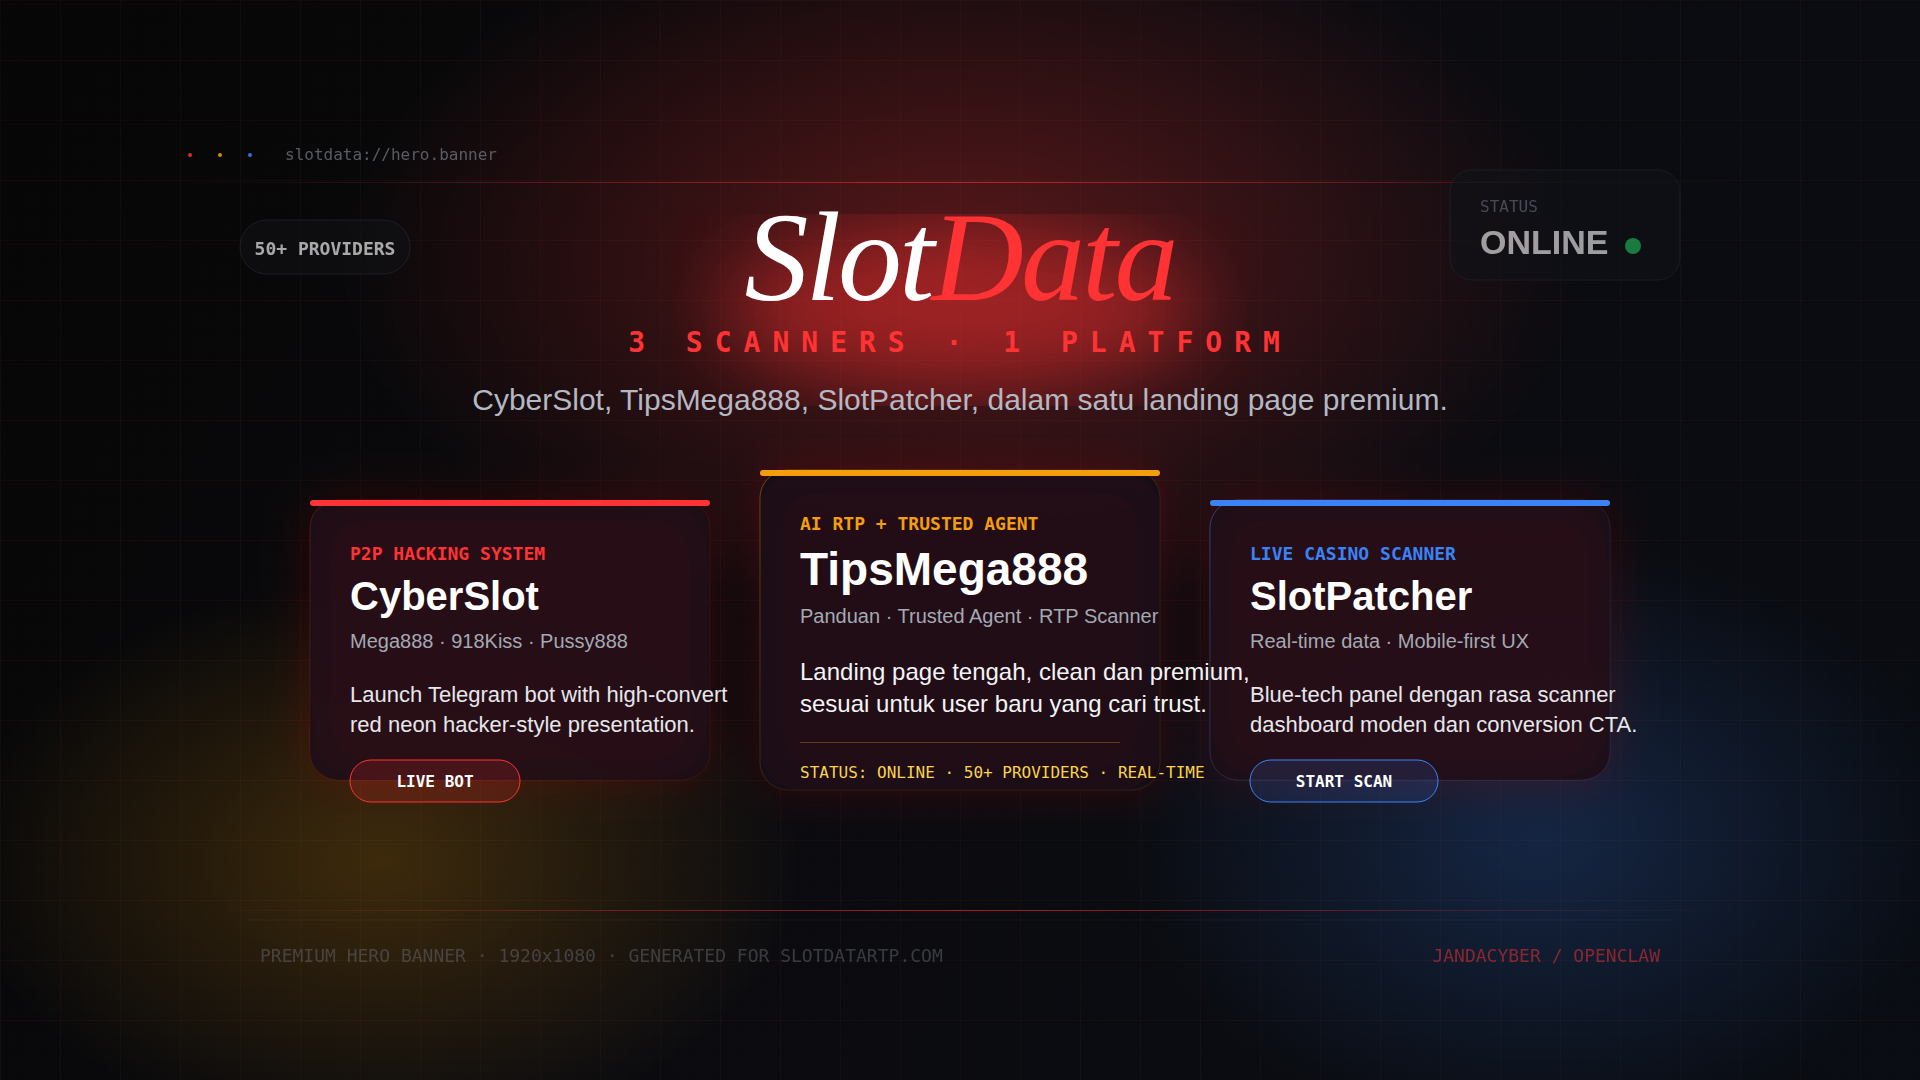
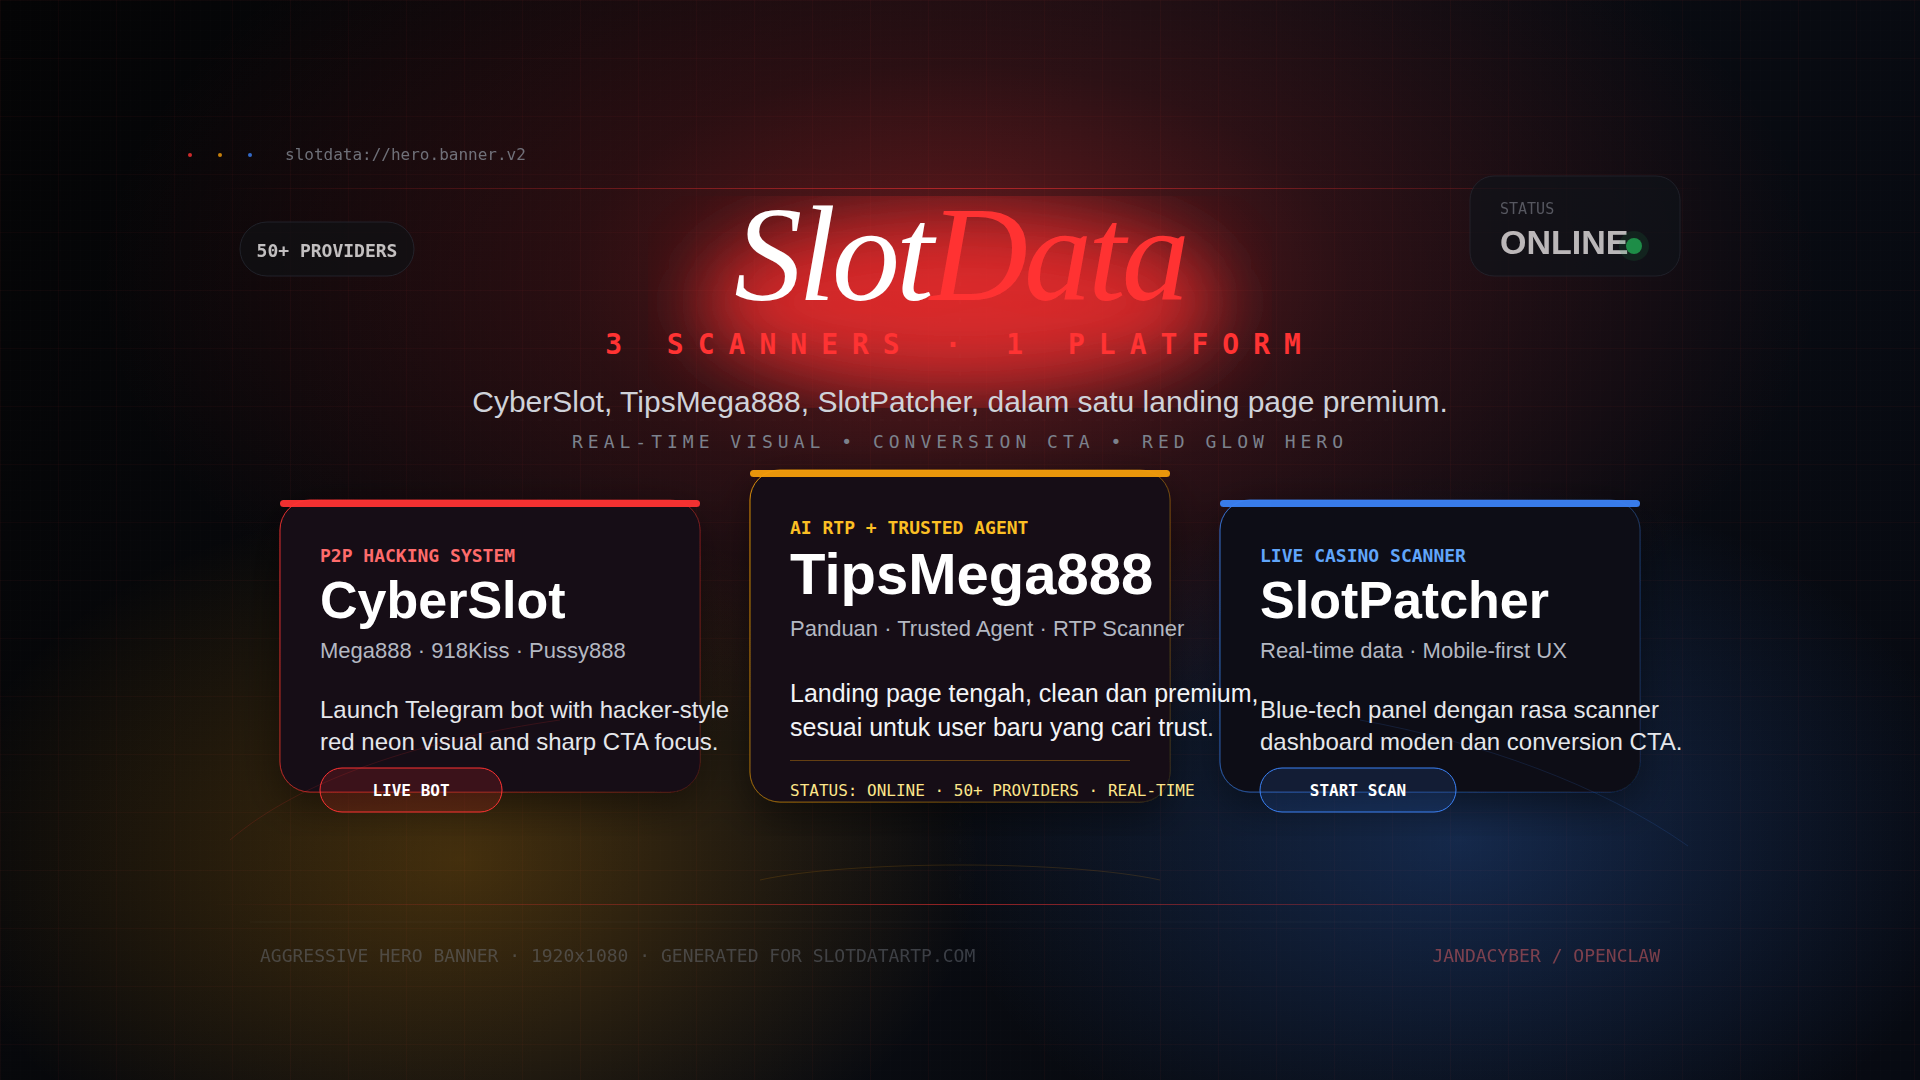
feat: upgrade hero artwork and embed it into landing page

diff --git a/App.tsx b/App.tsx
@@ -418,6 +418,35 @@ const StatCard: React.FC<{ label: string; target: number; suffix: string }> = ({
   );
 };
 
+const HeroArtwork: React.FC = () => {
+  const tiltRef = useTilt<HTMLDivElement>(8);
+  const reveal = useScrollReveal<HTMLDivElement>();
+
+  return (
+    <div
+      ref={(el) => { (tiltRef as React.MutableRefObject<HTMLDivElement | null>).current = el; (reveal.ref as React.MutableRefObject<HTMLDivElement | null>).current = el; }}
+      className={`relative mt-10 mb-10 transition-all duration-700 ${reveal.visible ? 'opacity-100 translate-y-0' : 'opacity-0 translate-y-10'}`}
+    >
+      <div className="absolute -inset-6 bg-gradient-to-r from-[#FF3333]/12 via-[#F59E0B]/10 to-[#3B82F6]/12 blur-3xl rounded-[40px] pointer-events-none"></div>
+      <div className="absolute inset-0 rounded-[34px] border border-white/5 pointer-events-none"></div>
+      <div className="absolute top-6 left-6 z-10 px-3 py-1 rounded-full bg-black/40 backdrop-blur-md border border-[#FF3333]/20 text-[#FF3333] text-[10px] font-bold uppercase tracking-[0.25em] font-mono">
+        PREMIUM HERO VISUAL
+      </div>
+      <div className="absolute bottom-6 right-6 z-10 px-3 py-1 rounded-full bg-black/40 backdrop-blur-md border border-[#3B82F6]/20 text-[#E5E7EB] text-[10px] font-bold uppercase tracking-[0.2em] font-mono">
+        SLOTDATARTP.COM
+      </div>
+      <div className="relative overflow-hidden rounded-[34px] border border-neutral-800/80 bg-[#090909] shadow-[0_0_80px_rgba(255,51,51,0.12)]">
+        <div className="absolute inset-0 bg-[radial-gradient(circle_at_top,rgba(255,51,51,0.10),transparent_35%),radial-gradient(circle_at_bottom_left,rgba(245,158,11,0.10),transparent_25%),radial-gradient(circle_at_bottom_right,rgba(59,130,246,0.10),transparent_25%)] pointer-events-none"></div>
+        <img
+          src="/hero-slotdatartp.svg"
+          alt="SlotData premium hero artwork"
+          className="relative z-[1] w-full h-auto block"
+        />
+      </div>
+    </div>
+  );
+};
+
 
 // ─── MAIN APP ──────────────────────────────────────
 function App() {
@@ -503,17 +532,26 @@ function App() {
             {heroSubtitle}<span className={`inline-block w-1.5 h-3 bg-[#FF3333] ml-0.5 ${subtitleDone ? 'animate-pulse' : ''}`}></span>
           </p>
 
-          <p className="text-neutral-400 text-base md:text-lg max-w-xl mx-auto mb-10 leading-relaxed">
+          <p className="text-neutral-400 text-base md:text-lg max-w-xl mx-auto mb-6 leading-relaxed">
             Pilih scanner yang betul untuk anda. Real-time RTP data dari 50+ provider. Scan, track, dan buat keputusan yang tepat.
           </p>
 
-          <a href="#scanners" className="inline-flex items-center gap-3 px-6 py-3 rounded-full bg-neutral-900 border border-neutral-800 hover:border-[#FF3333]/30 transition-all group pill-glow magnetic-btn">
-            <span className="px-2 py-0.5 rounded bg-[#FF3333] text-white text-[10px] font-bold uppercase">3 Live</span>
-            <span className="text-sm text-neutral-300">Pilih Scanner Anda</span>
-            <svg width="14" height="14" viewBox="0 0 24 24" fill="none" stroke="#FF3333" strokeWidth="2" strokeLinecap="round" strokeLinejoin="round" className="group-hover:translate-x-1 transition-transform">
-              <path d="M5 12h14M12 5l7 7-7 7"/>
-            </svg>
-          </a>
+          <div className="max-w-5xl mx-auto">
+            <HeroArtwork />
+          </div>
+
+          <div className="flex items-center justify-center gap-3 flex-wrap">
+            <a href="#scanners" className="inline-flex items-center gap-3 px-6 py-3 rounded-full bg-neutral-900 border border-neutral-800 hover:border-[#FF3333]/30 transition-all group pill-glow magnetic-btn">
+              <span className="px-2 py-0.5 rounded bg-[#FF3333] text-white text-[10px] font-bold uppercase">3 Live</span>
+              <span className="text-sm text-neutral-300">Pilih Scanner Anda</span>
+              <svg width="14" height="14" viewBox="0 0 24 24" fill="none" stroke="#FF3333" strokeWidth="2" strokeLinecap="round" strokeLinejoin="round" className="group-hover:translate-x-1 transition-transform">
+                <path d="M5 12h14M12 5l7 7-7 7"/>
+              </svg>
+            </a>
+            <a href="/hero-slotdatartp.svg" target="_blank" rel="noopener noreferrer" className="inline-flex items-center gap-2 px-5 py-3 rounded-full bg-[#111111]/80 border border-neutral-800 text-neutral-300 hover:text-white hover:border-[#F59E0B]/30 transition-all magnetic-btn text-sm font-semibold">
+              Open Hero Artwork
+            </a>
+          </div>
         </div>
 
 
